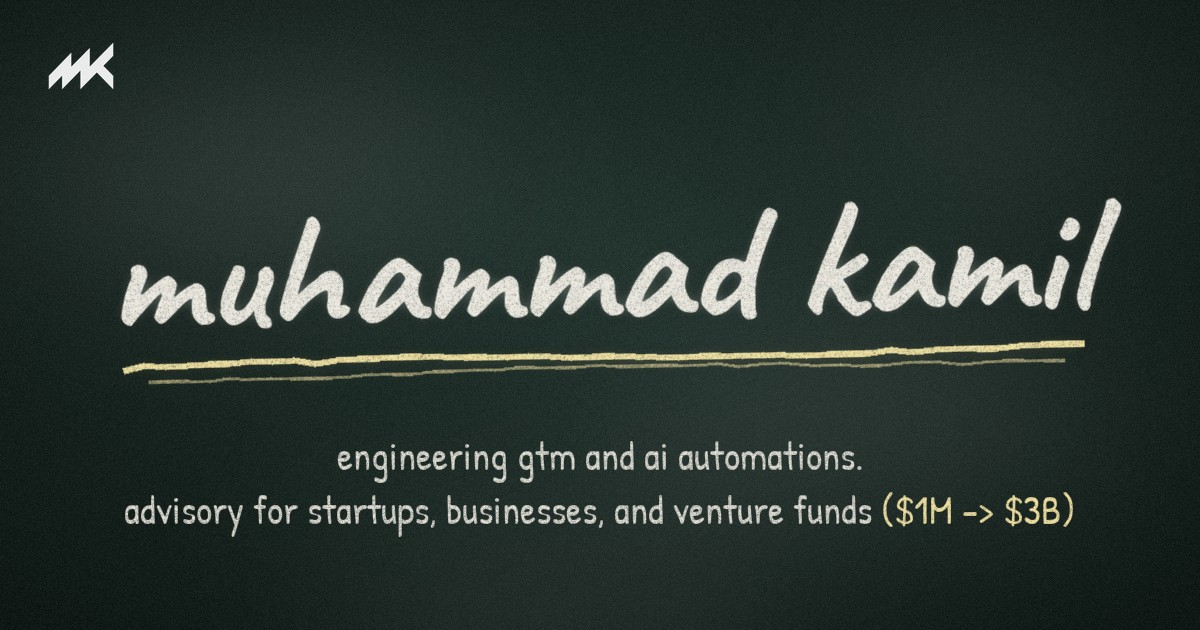
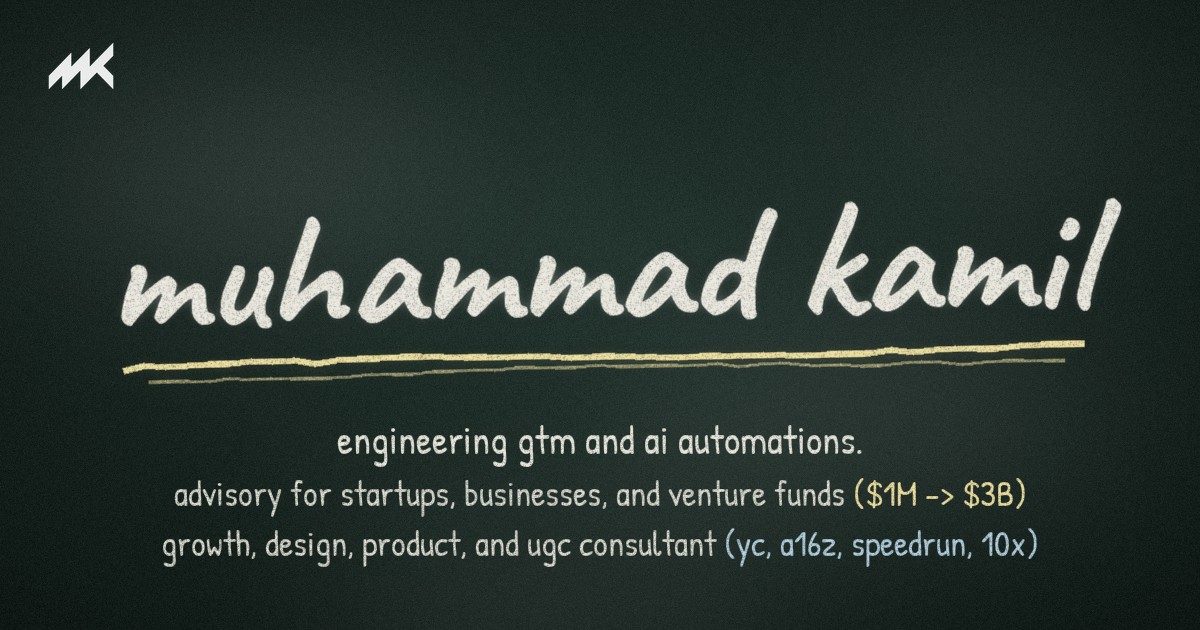
OG image mirrors 3-line hero (+cache-bust ?v=2); outro aside: i read every message (even spam)

Changed region(s): [[0.0925, 0.6635, 0.8942, 0.9048]]

diff --git a/src/app/layout.tsx b/src/app/layout.tsx
@@ -38,14 +38,15 @@ export const metadata: Metadata = {
     siteName: "Muhammad Kamil",
     type: "website",
     locale: "en_US",
-    images: [{ url: "/og-image.jpg", width: 1200, height: 630, alt: "Muhammad Kamil" }],
+    // ?v= busts platform link-preview caches when the image changes
+    images: [{ url: "/og-image.jpg?v=2", width: 1200, height: 630, alt: "Muhammad Kamil" }],
   },
   twitter: {
     card: "summary_large_image",
     title,
     description,
     creator: "@mk7ft",
-    images: ["/og-image.jpg"],
+    images: ["/og-image.jpg?v=2"],
   },
   robots: {
     index: true,

diff --git a/src/content.ts b/src/content.ts
@@ -38,7 +38,7 @@ export const PROFILE = {
 } as const;
 
 // Under the outro links — sets the tone for reaching out.
-export const OUTRO_ASIDE = "i read every message i get (even sales ones)";
+export const OUTRO_ASIDE = "i read every message (even spam)";
 
 // Third-party credibility strip (footer).
 export const FEATURED = ["Forbes", "TechCrunch", "Business Insider", "ESPN", "Fox News"];
